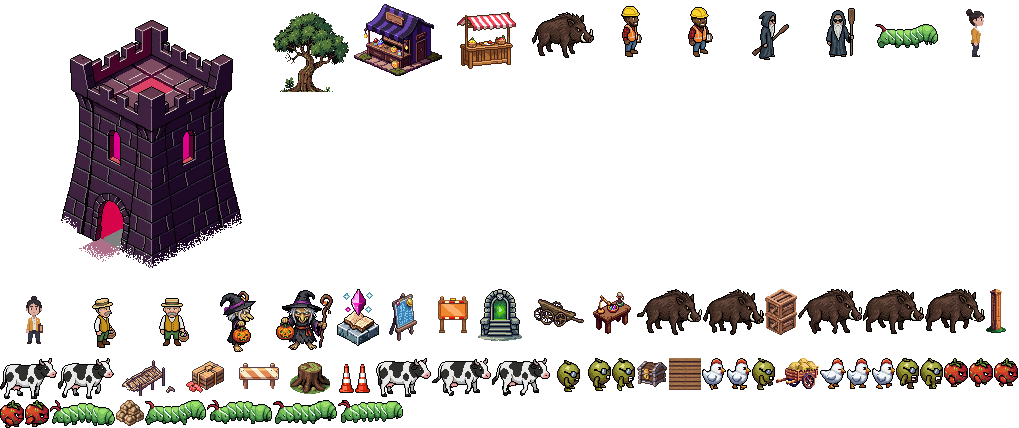
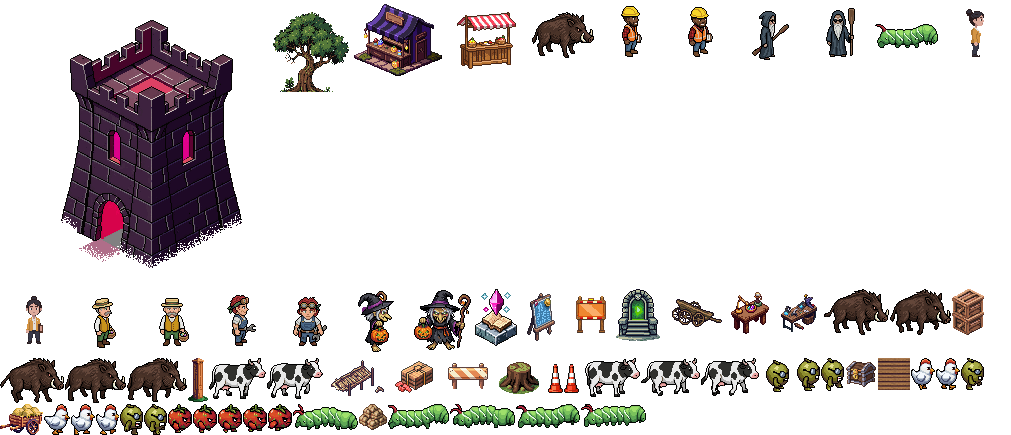
EastScape (local, held shut): Tinkering step five: Sprocket Sal and her Scrap Bench
Sal drawn in Nestor's style (her own south view, unlike Bronny's), fitted on
the NPC frame with a headshot for her window (tools/eastscape-sal-art.mjs),
and a proper scrap bench in place of the borrowed jeweller's bench.

diff --git a/eastscape.html b/eastscape.html
@@ -2582,7 +2582,7 @@ const ART_VER = { foundry_bg1: 5, foundry_bg2: 5,   /* (2026-09-27) the Foundry 
    because a crop added to CROPS should ask for its art without anybody remembering to type four more names —
    the content check then fails until that art exists, which is the right way round. */
 const CROP_ART = [...new Set(Object.keys(G.CROPS).map((k) => G.cropArt(k)))].flatMap((k) => [1, 2, 3, 4].map((n) => `crop_${k}_${n}`));   /* (2026-09-26) a seed crop draws its bloom's pictures */
-const ART_FILES = ["o_projboard", "o_dockruin", "o_cannonruin", "o_cannon", "o_tableruin", "o_boiler",   /* (2026-09-28) World Projects */ "bronny_south", "bronny_east", "o_roadwork", "o_cones", "o_sawhorse", "o_lumber",   /* (2026-09-28) Bronny the Foreman */ "nestor_south", "nestor_east",   /* (2026-09-28) Nestor the Egg Man */ "bessemer_l1", "bessemer_l2", "bessemer_l3", "bessemer_l4", "bessemer_l5", "fd_chain_bg1", "fd_chain_bg2", "fd_danger", "fd_eye", "fd_gate_bg1", "fd_gate_bg2", "fd_gatefx", "fd_grove_bg1", "fd_grove_bg2", "fd_hall_bg1", "fd_hall_bg2", "fd_isle_bg1", "fd_isle_bg2", "fd_lava", "fd_maze_bg1", "fd_maze_bg2", "fd_t_ball", "fd_t_burn", "fd_t_crush", "fd_t_geyser", "fd_t_spikes", "fd_t_spit", "fd_t_volc", "fd_tumor", "fd_vortex",   /* (2026-09-27) the Foundry rebuilt */ "bw_d_barrel", "bw_d_barrel2", "bw_d_fishbarrel", "bw_d_skelbarrel", "bw_d_sandbarrel", "bw_d_crate", "bw_d_bigcrate", "bw_d_fishcrate", "bw_d_sandcrate", "bw_d_basket", "bw_d_fishbasket", "bw_d_barricade", "bw_d_chest", "bw_d_bones", "bw_d_skeleton", "bw_d_shells1", "bw_d_shells2", "bw_d_rope", "bw_d_coconut", "bw_d_fish", "bw_d_stranded", "bw_flag", "bw_banner", "bw_banner2", "bw_chesta", "bw_none",   /* (2026-09-27) the islands' clutter, flags, banners and the chest */ "bw_cabin_bg1", "bw_cabin_bg2", "bw_light_bg1", "bw_light_bg2", "bw_wreck_bg1", "bw_wreck_bg2", "bw_pier_bg1", "bw_pier_bg2", "bw_skull_bg1", "bw_skull_bg2", "bw_rowboat", "bw_boata", "bw_palm1", "bw_palm2", "bw_palm3", "bw_palm1a", "bw_palm2a", "bw_palm3a", "bw_rock_starfall", "bw_rock_eclipse", "bw_rock_nova", "bw_water",   /* (2026-09-27) the Boardwalk's islands */ "orchard_bg1", "orchard_bg2", "or_pine", "or_walnut", "wasp", "wasp_i2", "wasp_w1", "wasp_w2", "wasp_w3", "wasp_w4", "wasp_a1", "wasp_a2", "wasp_a3", "wasp_a4", "orchardorc", "orchardorc_i2", "orchardorc_w1", "orchardorc_w2", "orchardorc_w3", "orchardorc_w4", "orchardorc_a1", "orchardorc_a2", "orchardorc_a3", "orchardorc_a4", "orchardkeeper", "orchardkeeper_i2", "orchardkeeper_w1", "orchardkeeper_w2", "orchardkeeper_w3", "orchardkeeper_w4", "orchardkeeper_a1", "orchardkeeper_a2", "orchardkeeper_a3", "orchardkeeper_a4", "hedgething", "hedgething_i2", "hedgething_w1", "hedgething_w2", "hedgething_w3", "hedgething_w4", "hedgething_a1", "hedgething_a2", "hedgething_a3", "hedgething_a4", "gardener", "gardener_i2", "gardener_w1", "gardener_w2", "gardener_w3", "gardener_w4", "gardener_a1", "gardener_a2", "gardener_a3", "gardener_a4", "pomona_south", "pomona_east",   /* (2026-09-27) the Orchard Wall */ "foundry_bg1", "foundry_bg2", "o_blast", "fd_vein_eclipse", "fd_vein_nova", "fd_vein_singularity", "slaggolem", "slaggolem_i2", "slaggolem_w1", "slaggolem_w2", "slaggolem_w3", "slaggolem_w4", "slaggolem_a1", "slaggolem_a2", "slaggolem_a3", "slaggolem_a4", "furnaceimp", "furnaceimp_i2", "furnaceimp_w1", "furnaceimp_w2", "furnaceimp_w3", "furnaceimp_w4", "furnaceimp_a1", "furnaceimp_a2", "furnaceimp_a3", "furnaceimp_a4", "cinderelemental", "cinderelemental_i2", "cinderelemental_w1", "cinderelemental_w2", "cinderelemental_w3", "cinderelemental_w4", "cinderelemental_a1", "cinderelemental_a2", "cinderelemental_a3", "cinderelemental_a4", "bessemer", "bessemer_a1", "bessemer_a2", "bessemer_a3", "bessemer_a4", "bessemer_r1", "bessemer_r2", "bessemer_r3", "bessemer_r4", "basalt_south", "basalt_east",   /* (2026-09-27) the Foundry */ "boardwalk_bg1", "boardwalk_bg2", "gull", "gull_i2", "gull_w1", "gull_w2", "gull_w3", "gull_w4", "gull_a1", "gull_a2", "gull_a3", "gull_a4", "deckhand", "deckhand_i2", "deckhand_w1", "deckhand_w2", "deckhand_w3", "deckhand_w4", "deckhand_a1", "deckhand_a2", "deckhand_a3", "deckhand_a4", "clawhand", "clawhand_i2", "clawhand_w1", "clawhand_w2", "clawhand_w3", "clawhand_w4", "clawhand_a1", "clawhand_a2", "clawhand_a3", "clawhand_a4", "krakenarm", "krakenarm_i2", "krakenarm_w1", "krakenarm_w2", "krakenarm_w3", "krakenarm_w4", "krakenarm_a1", "krakenarm_a2", "krakenarm_a3", "krakenarm_a4", "captainclaw", "captainclaw_i2", "captainclaw_w1", "captainclaw_w2", "captainclaw_w3", "captainclaw_w4", "captainclaw_a1", "captainclaw_a2", "captainclaw_a3", "captainclaw_a4", "saltymeg_south", "saltymeg_east",   /* (2026-09-27) the Boardwalk */ "o_jbench",   /* (2026-09-27) the jeweller's bench, in the Yard */ "dp_bg1", "dp_bg2", "dp_gatebar", "dp_crys_r", "dp_crys_g", "dp_crys_t", "dp_crys_b", "o_rock_abyss_crystal", "dp_vein_eclipse", "dp_vein_nova", "potboy", "potboy_i2", "potboy_w1", "potboy_w2", "potboy_w3", "potboy_w4", "potboy_a1", "potboy_a2", "potboy_a3", "potboy_a4", "dgoblin", "dgoblin_i2", "dgoblin_w1", "dgoblin_w2", "dgoblin_w3", "dgoblin_w4", "dgoblin_a1", "dgoblin_a2", "dgoblin_a3", "dgoblin_a4", "dogre", "dogre_i2", "dogre_w1", "dogre_w2", "dogre_w3", "dogre_w4", "dogre_a1", "dogre_a2", "dogre_a3", "dogre_a4", "diron", "diron_i2", "diron_w1", "diron_w2", "diron_w3", "diron_w4", "diron_a1", "diron_a2", "diron_a3", "diron_a4", "deepwarden", "deepwarden_i2", "deepwarden_w1", "deepwarden_w2", "deepwarden_w3", "deepwarden_w4", "deepwarden_a1", "deepwarden_a2", "deepwarden_a3", "deepwarden_a4", "deepwarden_r1", "deepwarden_r2", "deepwarden_r3", "deepwarden_r4", "deepwarden_r5", "deepwarden_r6", "dwisp", "pickett_south", "pickett_east", "pet_potboy",   /* (2026-09-27) the Depths of the Mountain: its area sheet (pet_potboy rides core, like every pet) */ "fung_sporecap_4", "fung_buttoncap_4", "fung_oyster_4", "fung_puffball_4", "fung_bluemould_4", "fung_inkcap_4", "fung_bleedtooth_4", "fung_glowcap_4", "fung_ghostpipe_4", "fung_truffle_4", "fung_lionsmane_4", "fung_voidmorel_4", "fung_starcap_4", "t_crypt", "t_cryptwall", "o_fbed", "o_compost", "fung_spawn_1", "fung_spawn_2", "fung_sporecap_3", "fung_buttoncap_3", "fung_oyster_3", "fung_puffball_3", "fung_bluemould_3", "fung_inkcap_3", "fung_bleedtooth_3", "fung_glowcap_3", "fung_ghostpipe_3", "fung_truffle_3", "fung_lionsmane_3", "fung_voidmorel_3", "fung_starcap_3",   /* (2026-09-27) Fungiculture: the clusters ride core; the cellar's own (the rest of these) ride its area sheet. */   /* (2026-09-27) Fungiculture's wild clusters, on twelve maps, so they ride the startup sheet (13 small pictures) */ "nb_skull", "nb_crown", "nb_fish", "nb_dice", "nb_seven", "nb_cat", "nb_ghost", "nb_star", "nb_bolt", "nb_heart", "nb_pickaxe", "nb_chip",   /* (2026-09-27) the Store's name badges (G.NAME_ICONS), 16px, drawn before a name over heads; written out because the packer reads this list without the rules */ "pumpkinking", "pet_blackcat", "o_ghostlantern", "o_jack", "o_nightmarket", "hexa_south", "hexa_east",   /* (2026-09-27) the Long Night; the lantern and the jack stay in core, they stand on every map */ "t_wildg", "t_wildb", "t_wildw", "x_plateau", "x_column", "x_cave", "x_pillar", "x_rock1", "x_rock2", "x_rock3", "x_rock4", "x_rock5", "x_rock6", "x_rocks", "x_boulder1", "x_boulder2", "x_boulder3", "x_dead1", "x_dead2", "x_dead3", "x_dead4", "x_dead5", "x_pine1", "x_pine2", "x_pine3", "x_shrub1", "x_shrub2", "x_stump", "x_tuft1", "x_tuft2", "x_tuft3",
+const ART_FILES = ["sal_south", "sal_east", "o_scrapbench",   /* (2026-09-28) Sprocket Sal */ "o_projboard", "o_dockruin", "o_cannonruin", "o_cannon", "o_tableruin", "o_boiler",   /* (2026-09-28) World Projects */ "bronny_south", "bronny_east", "o_roadwork", "o_cones", "o_sawhorse", "o_lumber",   /* (2026-09-28) Bronny the Foreman */ "nestor_south", "nestor_east",   /* (2026-09-28) Nestor the Egg Man */ "bessemer_l1", "bessemer_l2", "bessemer_l3", "bessemer_l4", "bessemer_l5", "fd_chain_bg1", "fd_chain_bg2", "fd_danger", "fd_eye", "fd_gate_bg1", "fd_gate_bg2", "fd_gatefx", "fd_grove_bg1", "fd_grove_bg2", "fd_hall_bg1", "fd_hall_bg2", "fd_isle_bg1", "fd_isle_bg2", "fd_lava", "fd_maze_bg1", "fd_maze_bg2", "fd_t_ball", "fd_t_burn", "fd_t_crush", "fd_t_geyser", "fd_t_spikes", "fd_t_spit", "fd_t_volc", "fd_tumor", "fd_vortex",   /* (2026-09-27) the Foundry rebuilt */ "bw_d_barrel", "bw_d_barrel2", "bw_d_fishbarrel", "bw_d_skelbarrel", "bw_d_sandbarrel", "bw_d_crate", "bw_d_bigcrate", "bw_d_fishcrate", "bw_d_sandcrate", "bw_d_basket", "bw_d_fishbasket", "bw_d_barricade", "bw_d_chest", "bw_d_bones", "bw_d_skeleton", "bw_d_shells1", "bw_d_shells2", "bw_d_rope", "bw_d_coconut", "bw_d_fish", "bw_d_stranded", "bw_flag", "bw_banner", "bw_banner2", "bw_chesta", "bw_none",   /* (2026-09-27) the islands' clutter, flags, banners and the chest */ "bw_cabin_bg1", "bw_cabin_bg2", "bw_light_bg1", "bw_light_bg2", "bw_wreck_bg1", "bw_wreck_bg2", "bw_pier_bg1", "bw_pier_bg2", "bw_skull_bg1", "bw_skull_bg2", "bw_rowboat", "bw_boata", "bw_palm1", "bw_palm2", "bw_palm3", "bw_palm1a", "bw_palm2a", "bw_palm3a", "bw_rock_starfall", "bw_rock_eclipse", "bw_rock_nova", "bw_water",   /* (2026-09-27) the Boardwalk's islands */ "orchard_bg1", "orchard_bg2", "or_pine", "or_walnut", "wasp", "wasp_i2", "wasp_w1", "wasp_w2", "wasp_w3", "wasp_w4", "wasp_a1", "wasp_a2", "wasp_a3", "wasp_a4", "orchardorc", "orchardorc_i2", "orchardorc_w1", "orchardorc_w2", "orchardorc_w3", "orchardorc_w4", "orchardorc_a1", "orchardorc_a2", "orchardorc_a3", "orchardorc_a4", "orchardkeeper", "orchardkeeper_i2", "orchardkeeper_w1", "orchardkeeper_w2", "orchardkeeper_w3", "orchardkeeper_w4", "orchardkeeper_a1", "orchardkeeper_a2", "orchardkeeper_a3", "orchardkeeper_a4", "hedgething", "hedgething_i2", "hedgething_w1", "hedgething_w2", "hedgething_w3", "hedgething_w4", "hedgething_a1", "hedgething_a2", "hedgething_a3", "hedgething_a4", "gardener", "gardener_i2", "gardener_w1", "gardener_w2", "gardener_w3", "gardener_w4", "gardener_a1", "gardener_a2", "gardener_a3", "gardener_a4", "pomona_south", "pomona_east",   /* (2026-09-27) the Orchard Wall */ "foundry_bg1", "foundry_bg2", "o_blast", "fd_vein_eclipse", "fd_vein_nova", "fd_vein_singularity", "slaggolem", "slaggolem_i2", "slaggolem_w1", "slaggolem_w2", "slaggolem_w3", "slaggolem_w4", "slaggolem_a1", "slaggolem_a2", "slaggolem_a3", "slaggolem_a4", "furnaceimp", "furnaceimp_i2", "furnaceimp_w1", "furnaceimp_w2", "furnaceimp_w3", "furnaceimp_w4", "furnaceimp_a1", "furnaceimp_a2", "furnaceimp_a3", "furnaceimp_a4", "cinderelemental", "cinderelemental_i2", "cinderelemental_w1", "cinderelemental_w2", "cinderelemental_w3", "cinderelemental_w4", "cinderelemental_a1", "cinderelemental_a2", "cinderelemental_a3", "cinderelemental_a4", "bessemer", "bessemer_a1", "bessemer_a2", "bessemer_a3", "bessemer_a4", "bessemer_r1", "bessemer_r2", "bessemer_r3", "bessemer_r4", "basalt_south", "basalt_east",   /* (2026-09-27) the Foundry */ "boardwalk_bg1", "boardwalk_bg2", "gull", "gull_i2", "gull_w1", "gull_w2", "gull_w3", "gull_w4", "gull_a1", "gull_a2", "gull_a3", "gull_a4", "deckhand", "deckhand_i2", "deckhand_w1", "deckhand_w2", "deckhand_w3", "deckhand_w4", "deckhand_a1", "deckhand_a2", "deckhand_a3", "deckhand_a4", "clawhand", "clawhand_i2", "clawhand_w1", "clawhand_w2", "clawhand_w3", "clawhand_w4", "clawhand_a1", "clawhand_a2", "clawhand_a3", "clawhand_a4", "krakenarm", "krakenarm_i2", "krakenarm_w1", "krakenarm_w2", "krakenarm_w3", "krakenarm_w4", "krakenarm_a1", "krakenarm_a2", "krakenarm_a3", "krakenarm_a4", "captainclaw", "captainclaw_i2", "captainclaw_w1", "captainclaw_w2", "captainclaw_w3", "captainclaw_w4", "captainclaw_a1", "captainclaw_a2", "captainclaw_a3", "captainclaw_a4", "saltymeg_south", "saltymeg_east",   /* (2026-09-27) the Boardwalk */ "o_jbench",   /* (2026-09-27) the jeweller's bench, in the Yard */ "dp_bg1", "dp_bg2", "dp_gatebar", "dp_crys_r", "dp_crys_g", "dp_crys_t", "dp_crys_b", "o_rock_abyss_crystal", "dp_vein_eclipse", "dp_vein_nova", "potboy", "potboy_i2", "potboy_w1", "potboy_w2", "potboy_w3", "potboy_w4", "potboy_a1", "potboy_a2", "potboy_a3", "potboy_a4", "dgoblin", "dgoblin_i2", "dgoblin_w1", "dgoblin_w2", "dgoblin_w3", "dgoblin_w4", "dgoblin_a1", "dgoblin_a2", "dgoblin_a3", "dgoblin_a4", "dogre", "dogre_i2", "dogre_w1", "dogre_w2", "dogre_w3", "dogre_w4", "dogre_a1", "dogre_a2", "dogre_a3", "dogre_a4", "diron", "diron_i2", "diron_w1", "diron_w2", "diron_w3", "diron_w4", "diron_a1", "diron_a2", "diron_a3", "diron_a4", "deepwarden", "deepwarden_i2", "deepwarden_w1", "deepwarden_w2", "deepwarden_w3", "deepwarden_w4", "deepwarden_a1", "deepwarden_a2", "deepwarden_a3", "deepwarden_a4", "deepwarden_r1", "deepwarden_r2", "deepwarden_r3", "deepwarden_r4", "deepwarden_r5", "deepwarden_r6", "dwisp", "pickett_south", "pickett_east", "pet_potboy",   /* (2026-09-27) the Depths of the Mountain: its area sheet (pet_potboy rides core, like every pet) */ "fung_sporecap_4", "fung_buttoncap_4", "fung_oyster_4", "fung_puffball_4", "fung_bluemould_4", "fung_inkcap_4", "fung_bleedtooth_4", "fung_glowcap_4", "fung_ghostpipe_4", "fung_truffle_4", "fung_lionsmane_4", "fung_voidmorel_4", "fung_starcap_4", "t_crypt", "t_cryptwall", "o_fbed", "o_compost", "fung_spawn_1", "fung_spawn_2", "fung_sporecap_3", "fung_buttoncap_3", "fung_oyster_3", "fung_puffball_3", "fung_bluemould_3", "fung_inkcap_3", "fung_bleedtooth_3", "fung_glowcap_3", "fung_ghostpipe_3", "fung_truffle_3", "fung_lionsmane_3", "fung_voidmorel_3", "fung_starcap_3",   /* (2026-09-27) Fungiculture: the clusters ride core; the cellar's own (the rest of these) ride its area sheet. */   /* (2026-09-27) Fungiculture's wild clusters, on twelve maps, so they ride the startup sheet (13 small pictures) */ "nb_skull", "nb_crown", "nb_fish", "nb_dice", "nb_seven", "nb_cat", "nb_ghost", "nb_star", "nb_bolt", "nb_heart", "nb_pickaxe", "nb_chip",   /* (2026-09-27) the Store's name badges (G.NAME_ICONS), 16px, drawn before a name over heads; written out because the packer reads this list without the rules */ "pumpkinking", "pet_blackcat", "o_ghostlantern", "o_jack", "o_nightmarket", "hexa_south", "hexa_east",   /* (2026-09-27) the Long Night; the lantern and the jack stay in core, they stand on every map */ "t_wildg", "t_wildb", "t_wildw", "x_plateau", "x_column", "x_cave", "x_pillar", "x_rock1", "x_rock2", "x_rock3", "x_rock4", "x_rock5", "x_rock6", "x_rocks", "x_boulder1", "x_boulder2", "x_boulder3", "x_dead1", "x_dead2", "x_dead3", "x_dead4", "x_dead5", "x_pine1", "x_pine2", "x_pine3", "x_shrub1", "x_shrub2", "x_stump", "x_tuft1", "x_tuft2", "x_tuft3",
   "t_deepg", "t_deepb", "t_deepw", "d_plateau", "d_column", "d_cave", "d_pillar", "d_rock1", "d_rock2", "d_rock3", "d_rock4", "d_rock5", "d_rock6", "d_rock7", "d_rock8", "d_slab", "d_boulder1", "d_boulder2", "d_boulder3", "d_dead1", "d_dead2", "d_dead3", "d_root1", "d_root2", "d_root3", "d_log1", "d_log2", "d_stump1", "d_stump2", "d_burnt", "d_coal1", "d_coal2", "d_tuft", "weaver", "marrowhound", "grimlich", "o_gallowsoak", "mudge_south", "mudge_east", "morrow_south", "morrow_east", "zephyr_south", "zephyr_east", "rashid_south", "rashid_east", "volta_south", "volta_east", "auditor_south", "auditor_east", "grimm_south", "grimm_east", "a_wfall_w", "a_wfall_d", "a_surface", "a_shine", "a_lava", "a_lavab", "a_steam",   /* (2026-09-26) the Wilderness (x_) and the Deep Wild (d_): tools/eastscape-wild-art.mjs, from Szadi art's RPG Fantasy Worlds sets; every one is claimed by AREA_ART.wild or .deep below, so none of it is in core */
   "pet_pocketowl", "pet_mossback", "pet_trufflepig", "pet_stormling", "pet_salamander", "pet_ferret", "pet_crystalcrab", "pet_mimic", "pet_oracleowl", "pet_shellback", "pet_trufflebaron", "pet_tempest", "pet_magmadrake", "pet_banditking", "pet_diamondcrab", "pet_grandmimic", "pet_cerberpup", "pet_hoarder", "pet_goldentoad", "pet_moonmoth", "pet_housewins", "pet_coilwyrm",   /* (2026-09-27) Breeding's pets */ "o_altar_arcane", "o_altar_fire", "o_altar_frost", "o_altar_storm", "o_altar_void", "o_altar_sun", "o_altar_nexus",   /* (2026-09-26) the seven altars: each is deferred to its own area in AREA_ART */ "o_fletcher",   /* (2026-09-25) the fletching table in the Yard */ "t_dock", ...CROP_ART, "o_yardtree", "o_yardtree_stump", "o_tower", "t_doors", "fx_hit", "fx_crit", "fx_miss", "fx_bleed", "vince_south", "vince_east", "casino", "rony_south", "rony_east", "o_bomkiosk", "t_pit", "o_fightboard", "o_hsboard", "o_fameboard", "o_ringbell", "o_ringpost", "o_mirror", "o_rrtable", "o_barcart", "kellz_south", "kellz_east", "livia_south", "livia_east", "gaius_south", "gaius_east", "aurelia_south", "aurelia_east", "arbino_south", "arbino_east", "vince_south", "vince_east", "sterling_south", "sterling_east", "o_buffet", "o_l_chips", "o_l_cards", "o_l_spill", "o_l_slips", "o_wetfloor", "o_mopbucket", "o_coatrack", "o_suitcase", "o_l_shoe", "o_soda", "o_snacks", "o_stool", "o_armchair", "o_ashtray", "o_smokesign", "o_trashcan", "o_cooler", "o_planter", "o_cashier", "o_hilo", "o_mines", "o_plinko", "o_scratch", "o_pokertable", "o_blackjack", "o_coinstatue", "o_ropepost", "o_cocktail", "o_jukebox", "o_oddsboard", "o_wildladder", "barker_south", "barker_east", "o_duckpond", "o_banner", "o_banner2", "o_archway", "o_wagon", "o_cagebarH", "o_cagebarV", "o_turnstile", "o_bloodpool", "o_knives", "o_meathook", "pinhead", "tripled", "fatlady", "strongman", "grinner", "o_bigtop", "o_funhouse", "o_balloonpop", "o_shootgallery", "o_whackamole", "o_ticketbooth", "o_sidetent", "o_haybale", "o_carnlitter", "t_sawdust", "t_dwater", "critic", "o_railH", "o_railV", "o_railgate", "o_mausoleum", "pet_bonepup", "pet_packrat", "pet_cointoad", "pet_lanternmoth", "pet_housecat", "pet_coilling",   /* (2026-09-24) the Pyramid’s pet was in PETS and had a picture on disk and was in NEITHER of these two lists — its icon drew an empty box AND an equipped one would have walked around invisible. Every pet goes in both, drop or no drop. */ "o_prizewheel", "o_piano", "o_atm", "wall_neon", "wall_painting1", "wall_painting2", "pete_south", "pete_east", "nana_south", "nana_east", "randy_south", "randy_east", "wendell_south", "wendell_east", "ronde_south", "ronde_east", "t_casino", "t_roulette", "rug_casino", "rouge_south", "rouge_east", "dex_south", "dex_east", "dookie_south", "dookie_east", "t_dirt", "t_brick", "o_fencepost", "o_crates", "o_lamppost", "o_sacks", "o_handcart", "t_track", "o_gateframe", "o_gatebars", "o_agilend", "o_trailer", "o_wreck", "o_tyres", "o_dumpster", "o_rock_slagstone", "o_rustpine", "o_bogwood", "junkdog", "possum", "scrapper", "gator", "junkking", "darla_south", "darla_east", "t_water", "t_gwater", "t_gpath", "t_csky", "t_cpath", "farmhouse", "hut", "well", "tree", "hay", "wheat", "cow", "chicken", "hole",
   ...["south", "south-east", "east", "north-east", "north", "north-west", "west", "south-west"].flatMap((d) => ["hero_" + d, "legend_" + d]),   // (hero_tiro_*, the old tunic, left the startup list 2026-09-20: nobody wears it now that everyone has a look)
@@ -2652,7 +2652,7 @@ function registerArt(k, im) {   // `im` is a loaded Image, or a canvas the page 
    fetches the sheet ONCE, cuts every picture in it into its own small canvas and registers them all, so the rest of the page
    never knows. A picture in no sheet, or whose sheet won't load, is fetched by itself exactly as before (loadOne), so new art
    works before it is packed. PACKS_V is packs.json's ?v= and is bumped by the pack tool, never by hand. */
-const PACKS_V = 129;
+const PACKS_V = 131;
 const PACK_DIR = "/v3/assets/img/glad/packs/", packOf = new Map(), packJobs = new Map(); let PACKS = null;
 const packsReady = fetch(`${PACK_DIR}packs.json?v=${PACKS_V}`).then((r) => (r.ok ? r.json() : null)).then((j) => { if (!j || typeof j !== "object") return; PACKS = j; for (const [name, p] of Object.entries(j)) for (const k of Object.keys(p.keys || {})) if (!packOf.has(k)) packOf.set(k, name); }).catch(() => { /* no sheets: every picture comes on its own */ });
 const loadPack = (name) => packJobs.get(name) || packJobs.set(name, new Promise((res) => {
@@ -2720,7 +2720,7 @@ const AREA_ART = {
        the Casino drew him as the plain fallback figure. tools/eastscape-art-reach.mjs is the check. */
     "t_guild", ...["marla", "quietman", "odile"].flatMap((k) => [`${k}_south`, `${k}_east`])],
   // the one line out of the casino (2026-09-20): every scene has its rocks, trees, fish AND its monsters
-  workyard: ["o_projboard", "o_dockruin", "t_dock",   /* (2026-09-28) the Fishing Dock */ "o_jbench", "o_nightmarket", "hexa_south", "hexa_east", "bronny_south", "bronny_east", "o_roadwork", "o_cones", "o_sawhorse", "o_lumber",   /* (2026-09-28) Bronny's worksite */ "nestor_south", "nestor_east",   /* (2026-09-28) Nestor the Egg Man */ "o_altar_arcane", "o_yardtree", "o_yardtree_stump", "o_tower", "hornworm", "boar", "olive", "o_chest", "o_chariot", "charon_south", "charon_east", "livia_south", "livia_east", "o_stall", "o_cryptdoor",
+  workyard: ["sal_south", "sal_east", "o_scrapbench", "o_projboard", "o_dockruin", "t_dock",   /* (2026-09-28) the Fishing Dock */ "o_jbench", "o_nightmarket", "hexa_south", "hexa_east", "bronny_south", "bronny_east", "o_roadwork", "o_cones", "o_sawhorse", "o_lumber",   /* (2026-09-28) Bronny's worksite */ "nestor_south", "nestor_east",   /* (2026-09-28) Nestor the Egg Man */ "o_altar_arcane", "o_yardtree", "o_yardtree_stump", "o_tower", "hornworm", "boar", "olive", "o_chest", "o_chariot", "charon_south", "charon_east", "livia_south", "livia_east", "o_stall", "o_cryptdoor",
     /* (2026-09-22) the market's railings and clutter. ART_FILES is the MASTER list of every picture; naming one
        here as well is what DEFERS it out of the login download (core.png is "ART_FILES less the per-area lists").
        They live in the Yard and nowhere else, and left out of this list they pushed the startup request budget

diff --git a/v3/assets/js/eastscape-shared.js b/v3/assets/js/eastscape-shared.js
@@ -2608,7 +2608,7 @@ Object.assign(SCENES, {
       dress("cones", 4, 16, "Cones. Somebody's rebuilding something.");
       /* (2026-09-28) SPROCKET SAL'S SCRAP BENCH (Tinkering), at the slab's south-east corner beside her: the jeweller's bench picture until
          the bench has its own art. Only while Tinkering is open. */
-      if (!HOLD.tinker) { objs.push({ t: "scrapbench", art: "o_jbench", x: 5, y: 17, name: "The Scrap Bench: salvage your junk into parts, and build gadgets" }); g[17][5] = "P"; keep.push([5, 17]); }
+      if (!HOLD.tinker) { objs.push({ t: "scrapbench", art: "o_scrapbench", x: 5, y: 17, name: "The Scrap Bench: salvage your junk into parts, and build gadgets" }); g[17][5] = "P"; keep.push([5, 17]); }
       objs.push({ t: "sign", art: "o_roadwork", x: 5, y: 15, name: "YARD UNDER CONSTRUCTION. Bronny the Foreman is rebuilding the Yard, and he needs materials. Fill his order together and the whole server gets a 2X Potion." }); g[15][5] = "#"; keep.push([5, 15]);
       for (let x = 0; x < COLS; x++) keep.push([x, 12], [x, 14]);
       wild(g, objs, this.exits, { n: "forest", s: "forest", w: "forest", e: "forest" }, [...keepOf(this), ...keep], 12);
